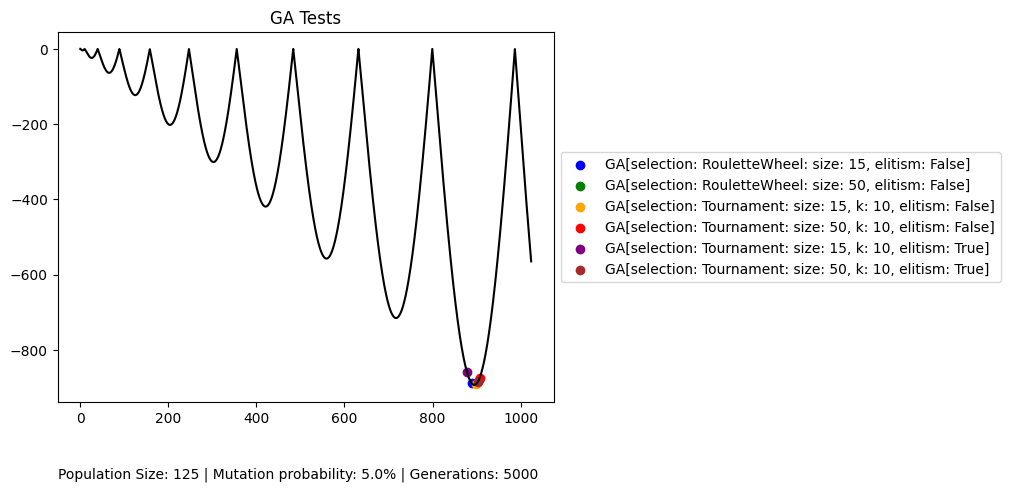
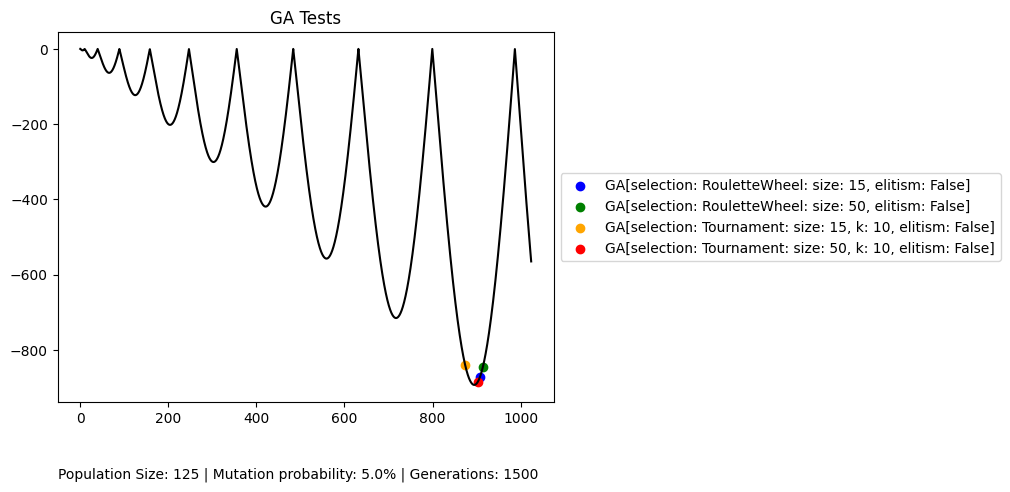
refactor: Individual class declaration inside GA class

Changed region(s): [[0.5525, 0.3049, 0.9822, 0.5793], [0.4604, 0.7317, 0.4911, 0.7927], [0.4911, 0.9451, 0.5218, 0.9756]]

diff --git a/genetic-algorithm/ga.py b/genetic-algorithm/ga.py
@@ -1,31 +1,51 @@
 import numpy as np
 from selection_methods import SelectionMethod
-from individual import Individual
 
 class GA:
 
-    def __init__(self, selection: SelectionMethod, elitism: bool = False):
+    class Individual:
+
+        def __init__(self, value):
+            self.value = value
+
+        def fitness(self) -> float:
+            raise NotImplementedError
+
+        def crossover(self, other) -> tuple:
+            raise NotImplementedError
+        
+        def mutate(self) -> None:
+            raise NotImplementedError
+
+    def __init__(self, selection: SelectionMethod, elitism: bool = False, generations: int = 1000, mut_prob: float = 0.05):
         self.selection = selection
         self.elitism = elitism
+        self.generations = generations
+        self.mut_prob = mut_prob
 
     def __str__(self):
         return f"GA[selection: {self.selection}, elitism: {self.elitism}]"
 
-    def run(self, initial_pop : list[Individual], generations: int, mut_prob: float):
-        pop : list[Individual] = np.array(initial_pop, dtype=Individual)
+    def run(self, initial_pop : list[Individual], generations: int = None, mut_prob: float = None):
+        if generations is None:
+            generations = self.generations
+        if mut_prob is None:
+            mut_prob = self.mut_prob
+            
+        pop : list[GA.Individual] = np.array(initial_pop, dtype=GA.Individual)
         best_result = pop[0].value
 
         for _ in range(generations):
-            fitness : np.ndarray = np.array([Individual.fitness() for Individual in pop])
+            fitness : np.ndarray = np.array([ind.fitness() for ind in pop])
 
             if self.elitism:
                 pop[np.argmin(fitness)].value = best_result
 
             best_result = pop[np.argmax(fitness)].value
 
-            selected : list[Individual] = self.selection.select(fitness, pop)
+            selected : list[GA.Individual] = self.selection.select(fitness, pop)
 
-            next_pop : list[Individual] = []
+            next_pop : list[GA.Individual] = []
 
             for i in range(0, len(pop), 2):
                 parent1, parent2 = np.random.choice(selected, 2, replace=False)
@@ -40,6 +60,6 @@ class GA:
                 next_pop.append(child1)
                 next_pop.append(child2)
 
-            pop = np.array(next_pop, dtype=Individual)
+            pop = np.array(next_pop, dtype=GA.Individual)
 
         return pop[np.argmax(fitness)].value

diff --git a/genetic-algorithm/selection_methods.py b/genetic-algorithm/selection_methods.py
@@ -6,12 +6,15 @@ def roulette_wheel_selection(f, pop, size):
     selection = np.random.choice(pop, size, p=prob)
     return selection
 
-def tournament_selection(f, pop, size, k):
+def __tournament_selection__(f, pop, size, k):
     pop_size = len(pop)
     for i in range(size):
         indices = np.random.choice(pop_size, k)
         winner = roulette_wheel_selection(f[indices], pop[indices], 1)[0]
         yield winner  
+
+def tournament_selection(f, pop, size, k):
+    return list(__tournament_selection__(f, pop, size, k))
 
 class SelectionMethod:
 
@@ -39,7 +42,7 @@ class Tournament(SelectionMethod):
         self.k = k
     
     def select(self, f, pop):
-        return np.array(list(tournament_selection(f, pop, self.size, self.k)))
+        return np.array(tournament_selection(f, pop, self.size, self.k))
     
     def __str__(self):
         return f"Tournament: size: {self.size}, k: {self.k}"

diff --git a/genetic-algorithm/ga_find_min_test.py b/genetic-algorithm/ga_find_min_test.py
@@ -2,7 +2,6 @@ from matplotlib import pyplot as plt
 import numpy as np
 
 from selection_methods import RouletteWheel, Tournament
-from individual import Individual
 from ga import GA
 
 tests_results_dir = 'tests_results'
@@ -13,7 +12,7 @@ if (__name__ == '__main__'):
 
     n = 125 # population size
 
-    class IntegerIndividual(Individual):
+    class IntegerIndividual(GA.Individual):
 
         BIT_SIZE = 10 # <= 16
         DOUBLE_CUTOFF = True
@@ -74,8 +73,6 @@ if (__name__ == '__main__'):
         GA(RouletteWheel(50)),
         GA(Tournament(15, 10)),
         GA(Tournament(50, 10)),
-        GA(Tournament(15, 10), elitism=True),
-        GA(Tournament(50, 10), elitism=True),
     ]
 
     colors = [
@@ -87,7 +84,7 @@ if (__name__ == '__main__'):
         'brown'
     ]
 
-    generations = 5000
+    generations = 1500
     mut_prob = 0.05
 
     for i, ga in enumerate(ga_models):
